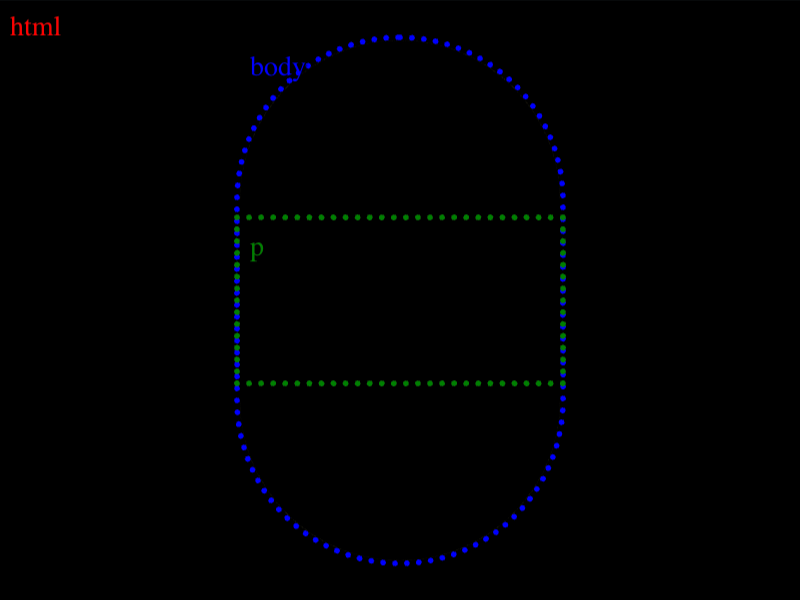
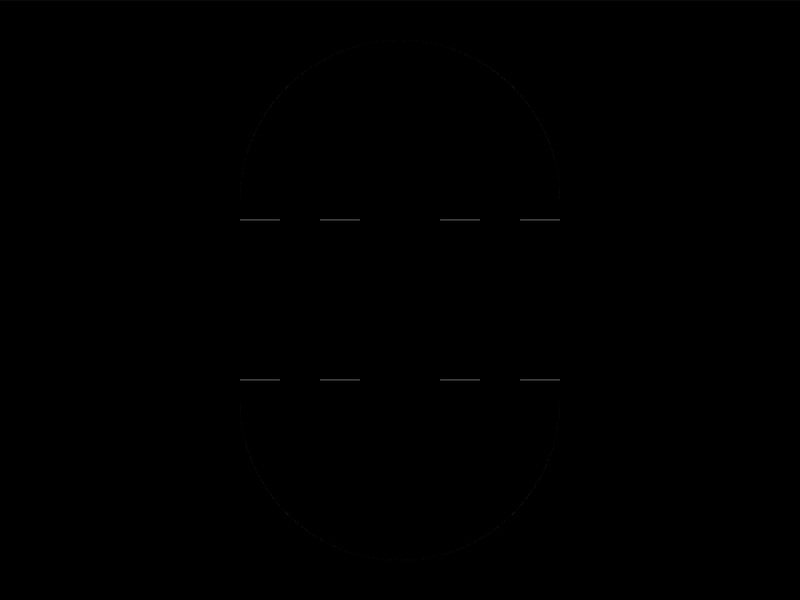
Score: 681.43, Characters: 167 (100.00% match) - CSSHub

diff --git a/Daily Targets/2026-08-11/README.md b/Daily Targets/2026-08-11/README.md
@@ -22,7 +22,7 @@ Challenge: <https://cssbattle.dev/play/9PFKqCOsKmSizurb6gRt>
 ## Code
 
 ```html
-<p><style>&{background:#3a2568;>*{border-radius:9in;margin:5%120;border-radius:9in;border-block:5pc solid#f9ddc6;*{margin:10 0;height:80;border-inline:double 64q#9D92C8
+<p><style>&{background:#3a2568;>*{border-radius:9in;margin:5%120;border-radius:9in;border-block:5pc solid#f9ddc6;*{margin:6%0;height:80;border-inline:64q double#9d92c8
 ```
 
 ## Prettified code
@@ -38,9 +38,9 @@ Challenge: <https://cssbattle.dev/play/9PFKqCOsKmSizurb6gRt>
     border-radius: 9in;
     border-block: 5pc solid #f9ddc6;
     * {
-      margin: 10 0;
+      margin: 6% 0;
       height: 80;
-      border-inline: double 64Q #9d92c8;
+      border-inline: 64Q double #9d92c8;
     }
   }
 }

diff --git a/README.md b/README.md
@@ -185,7 +185,7 @@ Note - I have not yet complete all the challenges.
 <li><a href="./Daily%20Targets/2026-08-08/">Aug 8, 2026</a> (144 Characters)</li>
 <li><a href="./Daily%20Targets/2026-08-09/">Aug 9, 2026</a> (143 Characters)</li>
 <li><a href="./Daily%20Targets/2026-08-10/">Aug 10, 2026</a> (112 Characters)</li>
-<li><a href="./Daily%20Targets/2026-08-11/">Aug 11, 2026</a> (168 Characters)</li>
+<li><a href="./Daily%20Targets/2026-08-11/">Aug 11, 2026</a> (167 Characters)</li>
 </ul>
 </details>
 </li>
